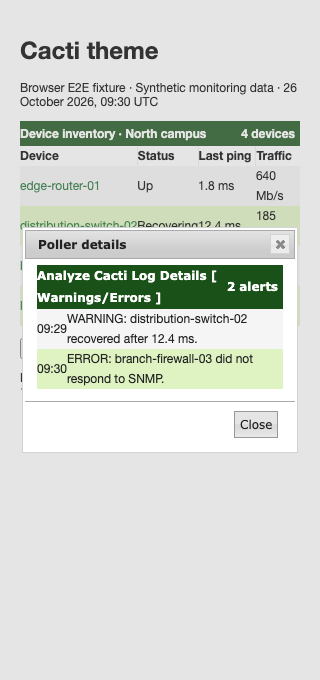
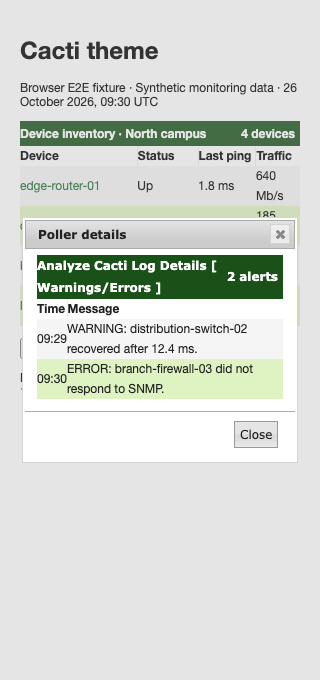
Add accessible headers to the theme fixture tables

Changed region(s): [[0.0625, 0.3088, 0.9375, 0.6794]]

diff --git a/tests/fixtures/Ui/cacti-theme.html b/tests/fixtures/Ui/cacti-theme.html
@@ -7,7 +7,7 @@
 		<p>Browser E2E fixture · Synthetic monitoring data · 26 October 2026, 09:30 UTC</p>
 		<div class="cactiTableTitleRow"><div class="cactiTableTitle">Device inventory · North campus</div><div class="cactiTableButton"><span>4 devices</span></div></div>
 		<table class="cactiTable" aria-label="Device inventory">
-			<thead><tr><th>Device</th><th>Status</th><th>Last ping</th><th>Traffic</th></tr></thead>
+			<thead><tr><th scope="col">Device</th><th scope="col">Status</th><th scope="col">Last ping</th><th scope="col">Traffic</th></tr></thead>
 			<tbody>
 				<tr class="odd"><td><a class="linkEditMain" href="#edge-router-01">edge-router-01</a></td><td>Up</td><td>1.8 ms</td><td>640 Mb/s</td></tr>
 				<tr class="even"><td><a class="linkEditMain" href="#distribution-switch-02">distribution-switch-02</a></td><td>Recovering</td><td>12.4 ms</td><td>185 Mb/s</td></tr>
@@ -20,6 +20,7 @@
 		<div id="details" style="display:none">
 			<div class="cactiTableTitleRow"><div class="cactiTableTitle">Analyze Cacti Log Details [ Warnings/Errors ]</div><div class="cactiTableButton"><span>2 alerts</span></div></div>
 			<table class="cactiTable" aria-label="Poller alerts">
+				<thead><tr><th scope="col">Time</th><th scope="col">Message</th></tr></thead>
 				<tr class="odd"><td>09:29</td><td>WARNING: distribution-switch-02 recovered after 12.4 ms.</td></tr>
 				<tr class="even"><td>09:30</td><td>ERROR: branch-firewall-03 did not respond to SNMP.</td></tr>
 			</table>
